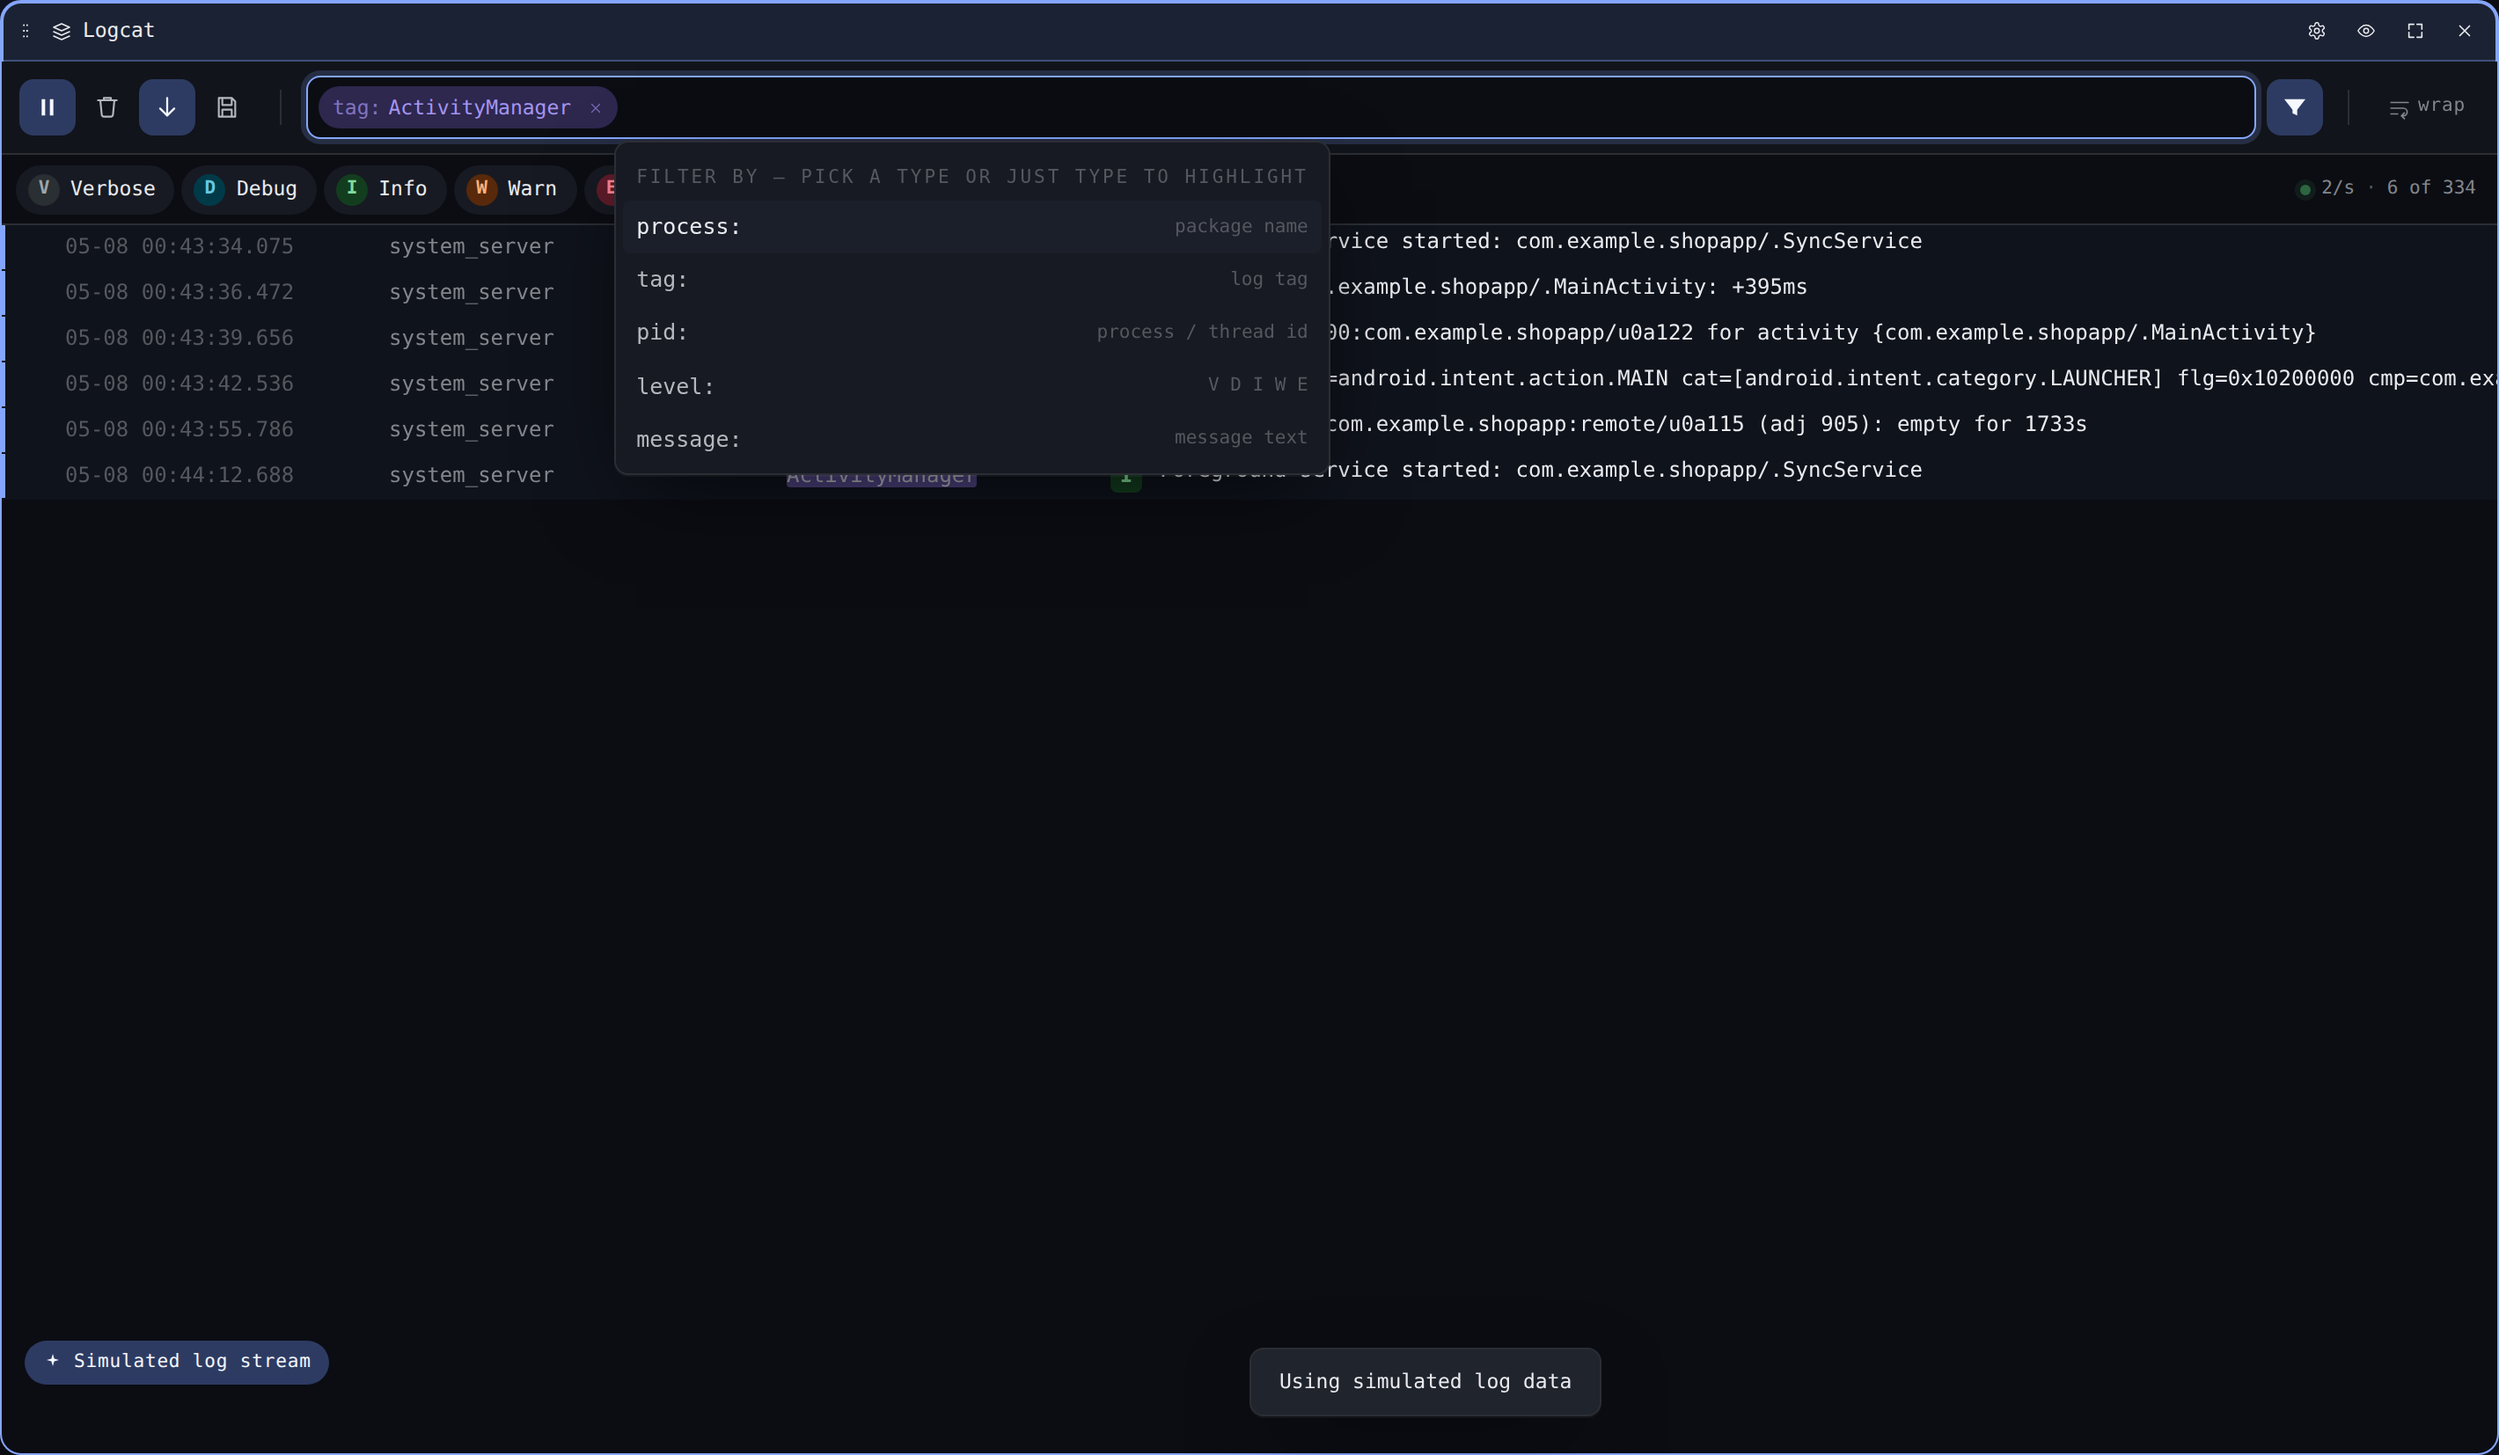
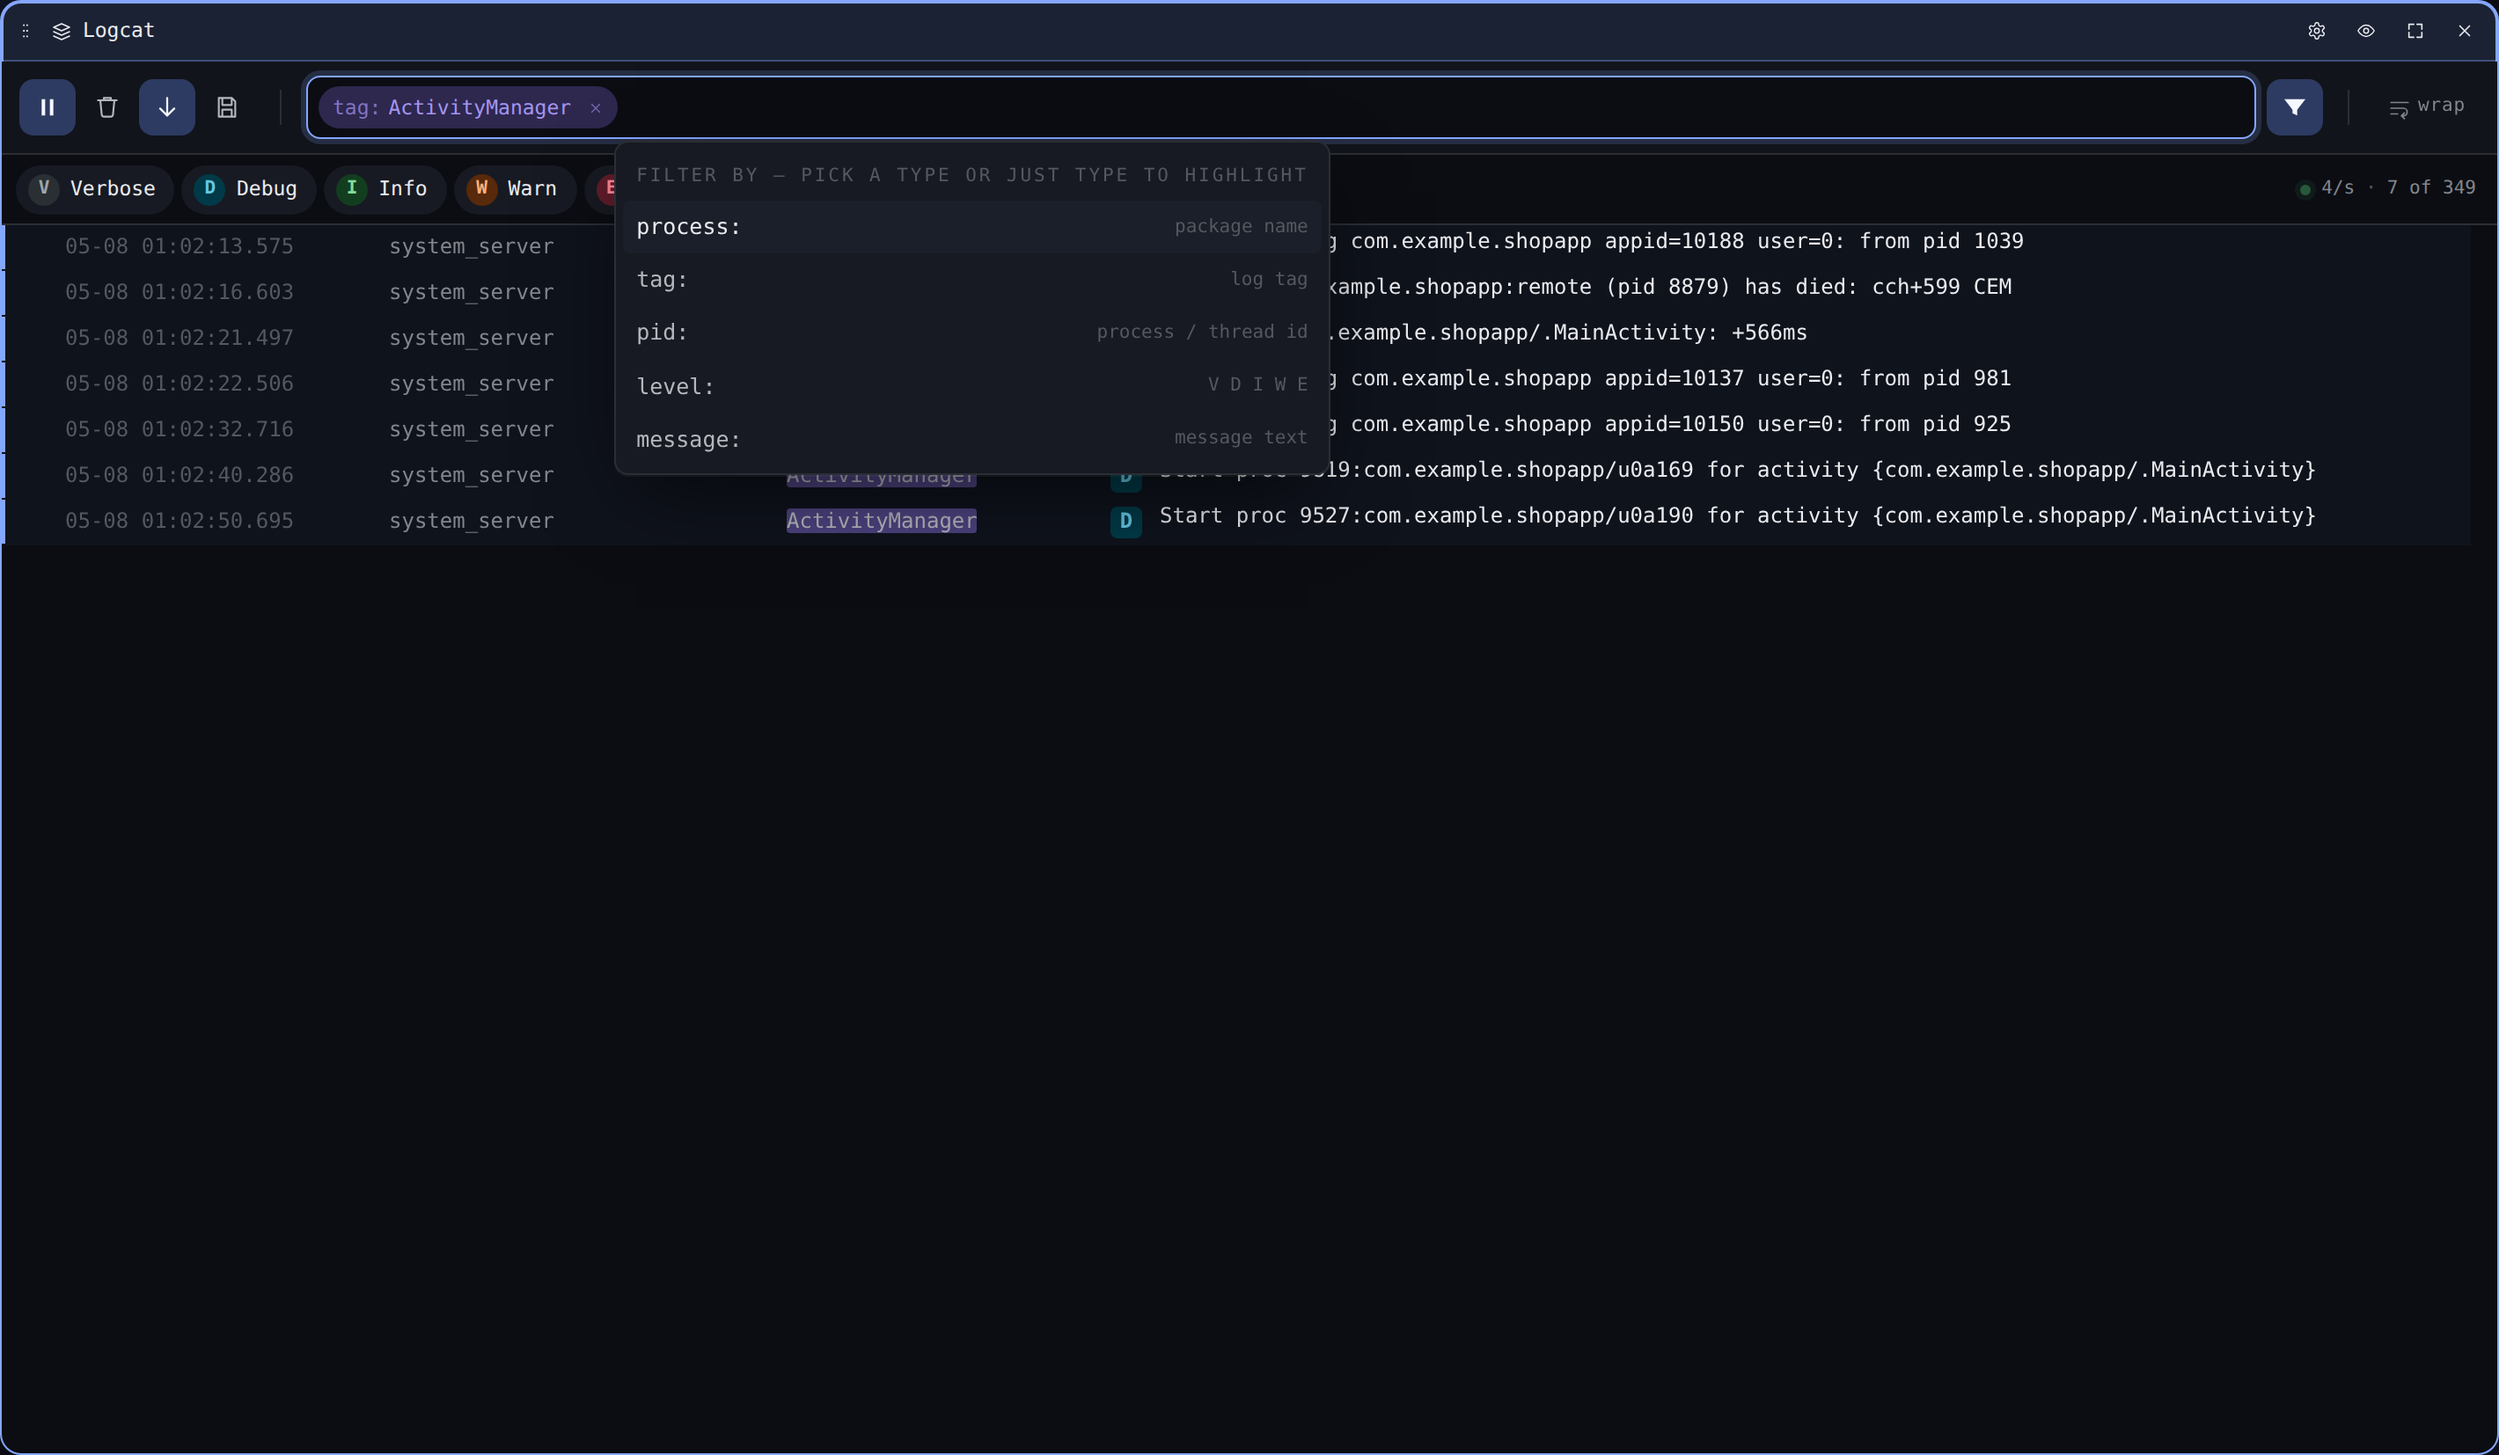
Hide simulator hints in captured screenshots
The "Using simulated log data" toast and the lower-right "Simulated
log stream" badge are useful onboarding affordances in the live app,
but they're confusing inside docs imagery — readers think they're
part of the product chrome rather than a session marker. Drop both
during capture: wait for the toast to auto-dismiss, then inject a
style tag that hides the badge.

Re-runs every PNG under docs/features/img/ and the README hero at
docs/public/screenshot.png so the shipped imagery stays in sync with
the new convention.

https://claude.ai/code/session_018GfNEcyQKxiSa1n1MY4JEB

diff --git a/scripts/capture-feature-screenshots.spec.ts b/scripts/capture-feature-screenshots.spec.ts
@@ -54,6 +54,17 @@ async function bootSimulator(page: Page): Promise<void> {
   // Wait for the dashboard to settle before snapshotting.
   await expect(page.locator('.dash-brand-name')).toBeVisible();
   await expect(page.locator('.row').first()).toBeVisible({ timeout: 10_000 });
+  // The dashboard ships two onboarding affordances that mark the
+  // session as fake — the bottom-centre "Using simulated log data"
+  // toast (auto-dismisses after ~1.8 s) and the lower-right
+  // "Simulated log stream" badge that stays for the duration of the
+  // session. Both are useful in the live app and confusing in
+  // captured screenshots, so we wait for the toast and hide the
+  // badge before any caller takes a shot.
+  await expect(page.locator('.toast')).toHaveCount(0, { timeout: 5_000 });
+  await page.addStyleTag({
+    content: '.fake-badge,.toast{display:none!important}',
+  });
 }
 
 async function addWidget(
@@ -77,7 +88,7 @@ test.describe('feature screenshots', () => {
     await page.screenshot({ path: out('empty-state'), fullPage: false });
   });
 
-  test('simulator empty state (badge visible)', async ({ page }) => {
+  test('simulator landing', async ({ page }) => {
     await bootSimulator(page);
     await page.screenshot({ path: out('simulator-empty'), fullPage: false });
   });
